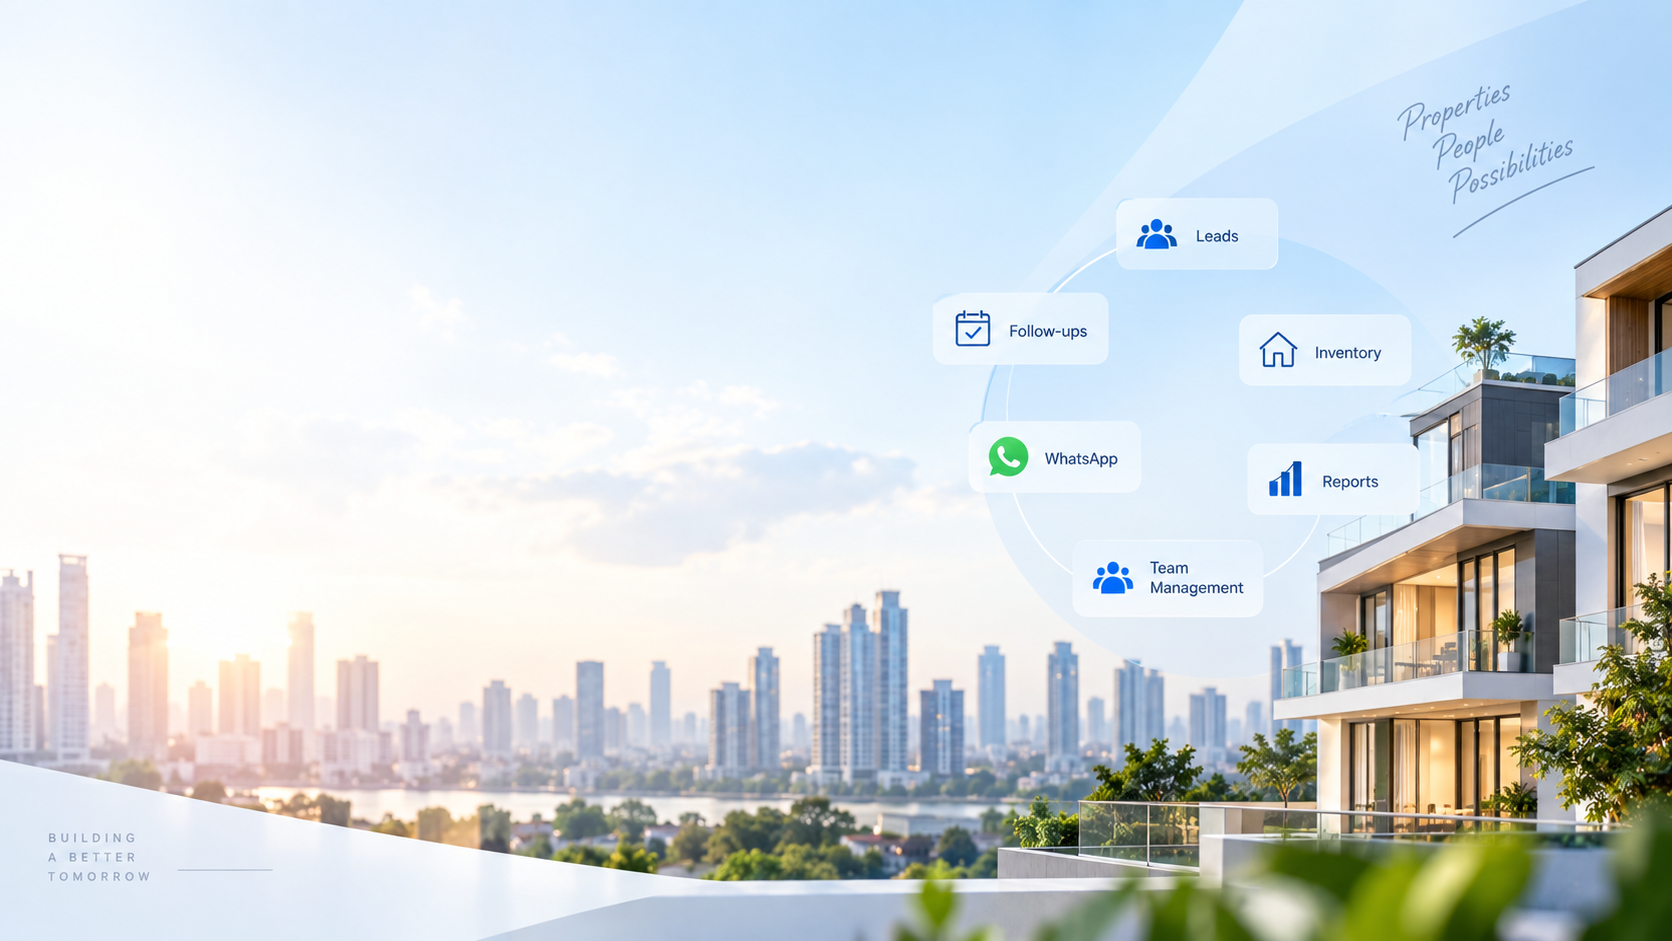
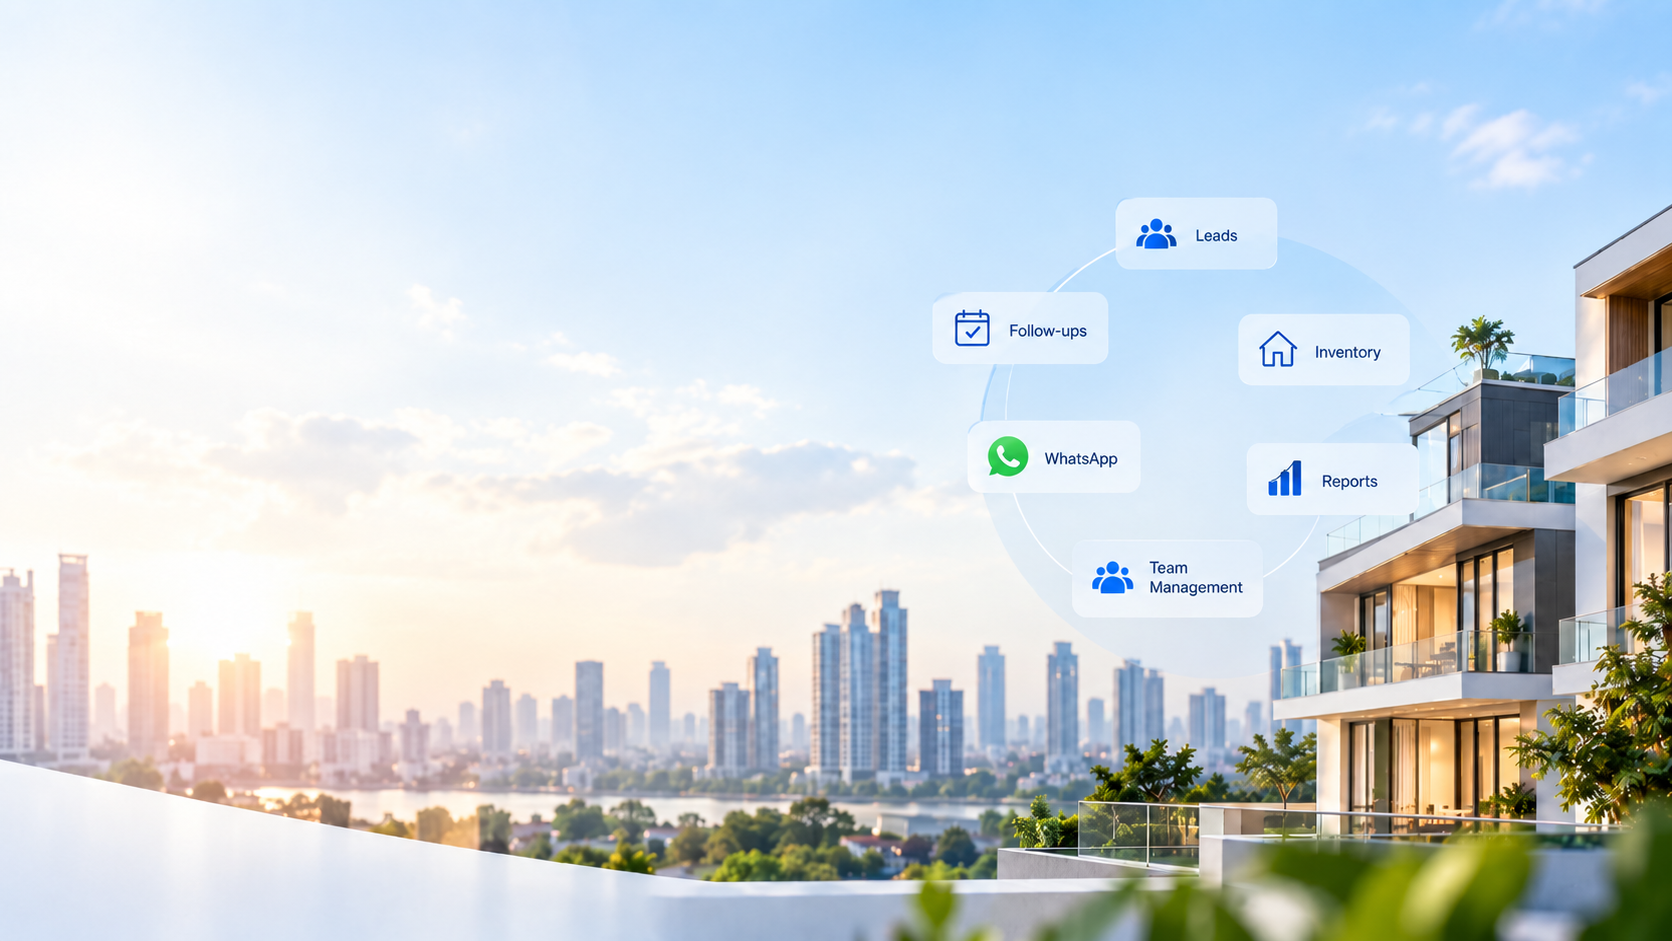
Update mobile size

diff --git a/src/acolead new landing page/RealEstateHero.jsx b/src/acolead new landing page/RealEstateHero.jsx
@@ -173,15 +173,20 @@ const RealEstateHero = ({ handleScrollToForm }) => {
         <>
             <Box
                 sx={{
-                    backgroundImage: "url('/images/bg1.png')",
-                    backgroundSize: 'cover',
-                    backgroundPosition: 'center',
+                    backgroundImage: {
+                        xs: "url('/images/bg5.png')",
+                        md: "url('/images/bg1.png')",
+                    },
+                    backgroundSize: { xs: 'cover', md: 'cover' },
+                    backgroundPosition: { xs: 'top center', md: 'center' },
+                    backgroundRepeat: 'no-repeat',
                     minHeight: '82vh',
                     display: 'flex',
+                    flexDirection: 'column',
                     alignItems: 'center',
                     justifyContent: 'center',
                     px: { xs: 2, sm: 3, md: 4 },
-                    py: isMobile ? 4 : 5,
+                    py: { xs: 0, sm: 4, md: 5 },
                     position: 'relative',
                     overflow: 'hidden',
                     borderBottom: '1px solid #E2E8F0',
@@ -191,10 +196,12 @@ const RealEstateHero = ({ handleScrollToForm }) => {
                 sx={{
                     display: 'flex',
                     flexDirection: isMobile ? 'column' : 'row',
-                    alignItems: 'center',
+                    alignItems: { xs: 'flex-start', md: 'center' },
+                    justifyContent: 'center',
                     maxWidth: '1240px',
                     width: '100%',
                     gap: { xs: 4, md: 5 },
+                    px: { xs: 0, sm: 0 },
                 }}
             >
                 {/* Left Content */}
@@ -204,7 +211,9 @@ const RealEstateHero = ({ handleScrollToForm }) => {
                         display: 'flex',
                         flexDirection: 'column',
                         gap: 1.8,
-                        textAlign: isMobile ? 'center' : 'left',
+                        textAlign: 'left',
+                        width: '100%',
+                        pt: { xs: 7, md: 0 },
                         minHeight: isMobile ? 'auto' : '470px',
                         justifyContent: 'center',
                         position: 'relative',
@@ -215,10 +224,20 @@ const RealEstateHero = ({ handleScrollToForm }) => {
                 >
                     {/* Badge: REAL ESTATE CRM SOFTWARE */}
                     <motion.div
-                        variants={slideInVariant}
-                        initial="hidden"
-                        animate={inView ? 'visible' : 'hidden'}
-                    >
+    variants={slideInVariant}
+    initial="hidden"
+    animate={inView ? 'visible' : 'hidden'}
+    style={{
+    position: isMobile ? 'absolute' : 'relative',
+    top: isMobile ? -190 : 'auto',
+    left: isMobile ? 0 : 'auto',
+    width: isMobile ? 'auto' : '100%',
+    display: 'flex',
+    justifyContent: 'flex-start',
+    boxSizing: 'border-box',
+    zIndex: 2,
+}}
+>
                         <Box
                             sx={{
                                 display: 'inline-flex',
@@ -229,7 +248,7 @@ const RealEstateHero = ({ handleScrollToForm }) => {
                                 borderRadius: '50px',
                                 bgcolor: 'rgba(22, 119, 247, 0.08)',
                                 border: '1px solid rgba(22, 119, 247, 0.22)',
-                                alignSelf: isMobile ? 'center' : 'flex-start',
+                                alignSelf: 'flex-start',
                                 mb: 0.5,
                             }}
                         >
@@ -267,9 +286,13 @@ const RealEstateHero = ({ handleScrollToForm }) => {
                             variant="h1"
                             sx={{
                                 fontWeight: 800,
-                                fontSize: isMobile ? '1.75rem' : '2.8rem',
+                                fontSize: isMobile ? '1.9rem' : '2.8rem',
                                 color: '#0F172A',
                                 lineHeight: 1.18,
+                                position: isMobile ? 'absolute' : 'relative',
+                                top: isMobile ? -135 : 'auto',
+                                left: isMobile ? 0 : 'auto',
+                                width: isMobile ? '60%' : '100%',
                                 letterSpacing: '-0.02em',
                                 mb: 0.5,
                             }}
@@ -293,6 +316,7 @@ const RealEstateHero = ({ handleScrollToForm }) => {
                         initial="hidden"
                         animate={inView ? 'visible' : 'hidden'}
                         transition={{ delay: 0.2, duration: 1 }}
+                        style={{ display: isMobile ? 'none' : 'block' }}
                     >
                         <Typography
                             sx={{
@@ -307,7 +331,14 @@ const RealEstateHero = ({ handleScrollToForm }) => {
                     </motion.div>
 
                     {/* 6 Features Interactive Animated Carousel Transition */}
-                    <Box sx={{ position: 'relative', minHeight: isMobile ? '70px' : '80px', my: 0.5 }}>
+                    <Box
+                        sx={{
+                            display: { xs: 'none', md: 'block' },
+                            position: 'relative',
+                            minHeight: '80px',
+                            my: 0.5,
+                        }}
+                    >
                         <AnimatePresence mode="wait" custom={direction}>
                             <motion.div
                                 key={activeStep}
@@ -320,18 +351,21 @@ const RealEstateHero = ({ handleScrollToForm }) => {
                             >
                                 <Box
                                     sx={{
-                                        p: 1.5,
+                                        p: { xs: 1, md: 1.5 },
+                                        width: { xs: '70%', md: '100%' },
+                                        maxWidth: { xs: 310, md: 'none' },
+                                        alignSelf: 'flex-start',
                                         borderRadius: '12px',
                                         bgcolor: 'rgba(255, 255, 255, 0.95)',
                                         border: `1px solid ${activePillar.accent}35`,
                                         boxShadow: '0 4px 14px rgba(0, 0, 0, 0.04)',
                                     }}
                                 >
-                                    <Box sx={{ display: 'flex', alignItems: 'center', gap: 1, mb: 0.4 }}>
+                                    <Box sx={{ display: 'flex', alignItems: 'center', gap: { xs: 0.7, md: 1 }, mb: 0.25 }}>
                                         <Box
                                             sx={{
-                                                width: 26,
-                                                height: 26,
+                                                width: { xs: 22, md: 26 },
+                                                height: { xs: 22, md: 26 },
                                                 borderRadius: '50%',
                                                 display: 'flex',
                                                 alignItems: 'center',
@@ -341,16 +375,16 @@ const RealEstateHero = ({ handleScrollToForm }) => {
                                                 border: '1px solid rgba(255,255,255,0.8)',
                                             }}
                                         >
-                                            <PillarIcon sx={{ fontSize: 15, color: '#fff' }} />
+                                            <PillarIcon sx={{ fontSize: { xs: 13, md: 15 }, color: '#fff' }} />
                                         </Box>
-                                        <Typography sx={{ fontWeight: 700, fontSize: '0.9rem', color: activePillar.accent }}>
+                                        <Typography sx={{ fontWeight: 700, fontSize: { xs: '0.8rem', md: '0.9rem' }, color: activePillar.accent }}>
                                             {activePillar.label}
                                         </Typography>
                                     </Box>
                                     <Typography
                                         sx={{
-                                            fontSize: isMobile ? '0.8rem' : '0.86rem',
-                                            lineHeight: 1.5,
+                                            fontSize: isMobile ? '0.72rem' : '0.86rem',
+                                            lineHeight: 1.35,
                                             color: '#334155',
                                         }}
                                     >
@@ -414,18 +448,22 @@ const RealEstateHero = ({ handleScrollToForm }) => {
                             endIcon={<ArrowForwardIcon />}
                             onClick={handleScrollToForm}
                             sx={{
-                                alignSelf: isMobile ? 'center' : 'flex-start',
+                                alignSelf: 'flex-start',
                                 bgcolor: '#1677F7',
                                 textTransform: 'none',
                                 fontWeight: 700,
-                                px: isMobile ? 4 : 5,
-                                py: isMobile ? 1.3 : 1.5,
+                                px: isMobile ? 2 : 5,
+                                py: isMobile ? 1 : 1.5,
                                 color: 'white',
-                                fontSize: isMobile ? '0.95rem' : '1.05rem',
+                                fontSize: isMobile ? '0.9rem' : '1.05rem',
                                 borderRadius: 3,
                                 mt: 1,
+                                position: isMobile ? 'absolute' : 'relative',
+                                top: isMobile ? 80 : 'auto',
+                                left: isMobile ? 0 : 'auto',
+                                width: isMobile ? 'auto' : '41%',
                                 boxShadow: '0 6px 20px rgba(22, 119, 247, 0.3)',
-                                position: 'relative',
+                                
                                 overflow: 'hidden',
                                 '&::before': {
                                     content: '""',
@@ -459,66 +497,19 @@ const RealEstateHero = ({ handleScrollToForm }) => {
 
 
                     {/* Mobile Stepper Controls */}
-                    {isMobile && (
-                        <MobileStepper
-                            steps={realEstatePillars.length}
-                            position="static"
-                            activeStep={activeStep}
-                            sx={{
-                                backgroundColor: 'transparent',
-                                px: 0,
-                                py: 1,
-                                '& .MuiMobileStepper-dot': {
-                                    backgroundColor: '#CBD5E1',
-                                    width: 8,
-                                    height: 8,
-                                    borderRadius: '50%',
-                                    transition: 'all 0.3s ease',
-                                },
-                                '& .MuiMobileStepper-dotActive': {
-                                    backgroundColor: activePillar.accent,
-                                    width: 14,
-                                    height: 8,
-                                    borderRadius: 4,
-                                },
-                            }}
-                            nextButton={
-                                <Button
-                                    size="small"
-                                    onClick={handleNext}
-                                    sx={{
-                                        color: activePillar.accent,
-                                        fontWeight: 600,
-                                        textTransform: 'none',
-                                        fontSize: '0.8rem',
-                                    }}
-                                >
-                                    Next <ArrowForwardIcon fontSize="small" sx={{ ml: 0.5 }} />
-                                </Button>
-                            }
-                            backButton={
-                                <Button
-                                    size="small"
-                                    onClick={handleBack}
-                                    sx={{
-                                        color: activePillar.accent,
-                                        fontWeight: 600,
-                                        textTransform: 'none',
-                                        fontSize: '0.8rem',
-                                    }}
-                                >
-                                    <ArrowBackIcon fontSize="small" sx={{ mr: 0.5 }} /> Back
-                                </Button>
-                            }
-                        />
-                    )}
+                    
+                            
+                            
+                                
+                            
+                     
                 </Box>
 
                 {/* Right Column: Photos (mainimg with floating calender, sales, card) */}
                 <Box
                     sx={{
                         flex: 1,
-                        display: 'flex',
+                        display: { xs: 'none', md: 'flex' },
                         justifyContent: 'center',
                         position: 'relative',
                         overflow: 'visible',

diff --git a/src/acolead new landing page/ClientLogosMarquee.jsx b/src/acolead new landing page/ClientLogosMarquee.jsx
@@ -208,7 +208,7 @@ const ClientLogosMarquee = () => {
           component="h2"
           sx={{
             fontWeight: 800,
-            fontSize: { xs: '1.6rem', sm: '2.1rem', md: '2.5rem' },
+            fontSize: { xs: '1.3rem', sm: '2.1rem', md: '2.5rem' },
             color: '#0F172A',
             letterSpacing: '-0.02em',
             mb: 1,
